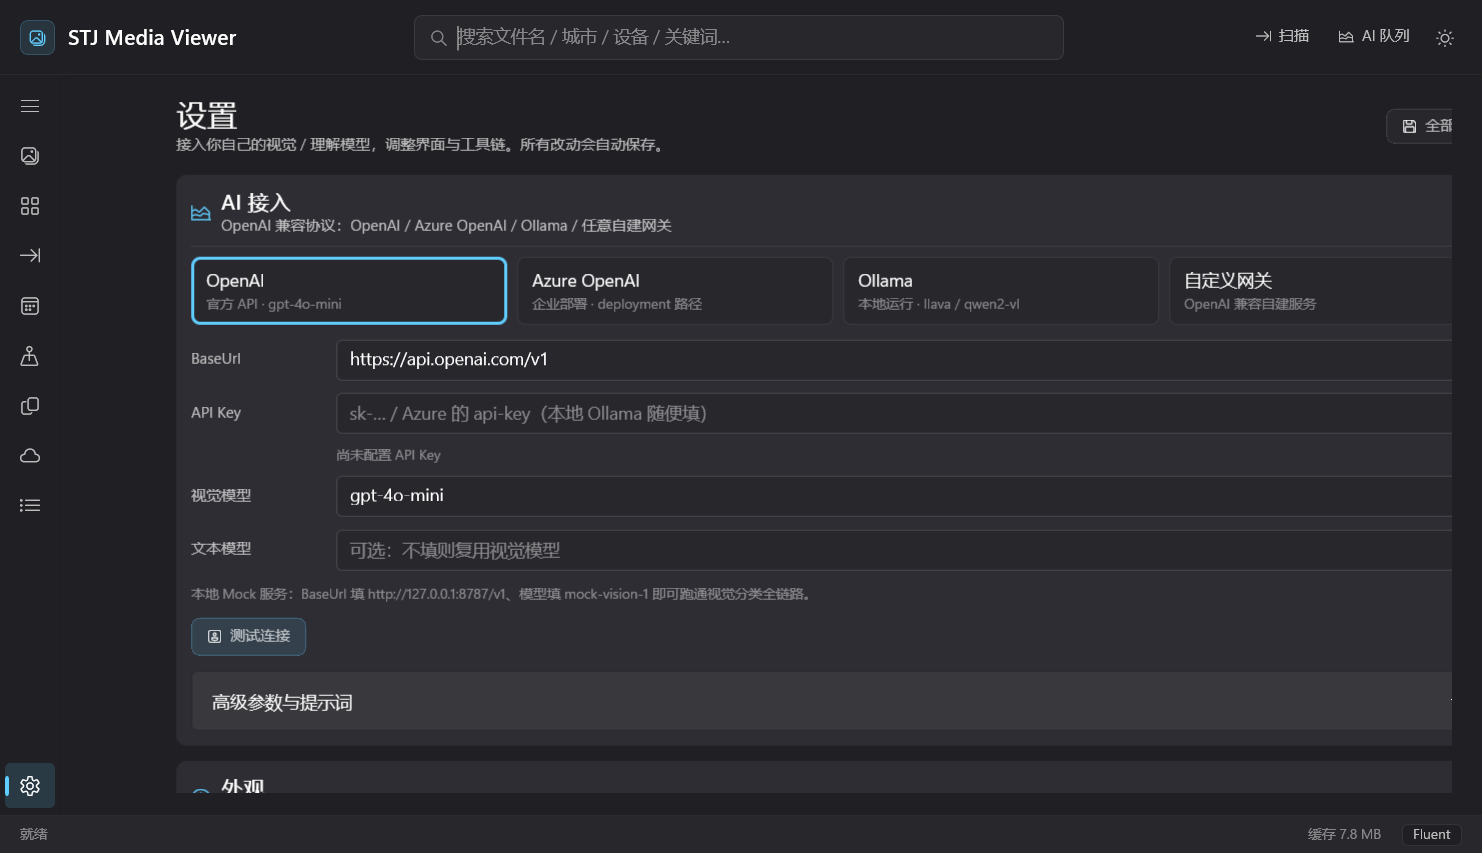
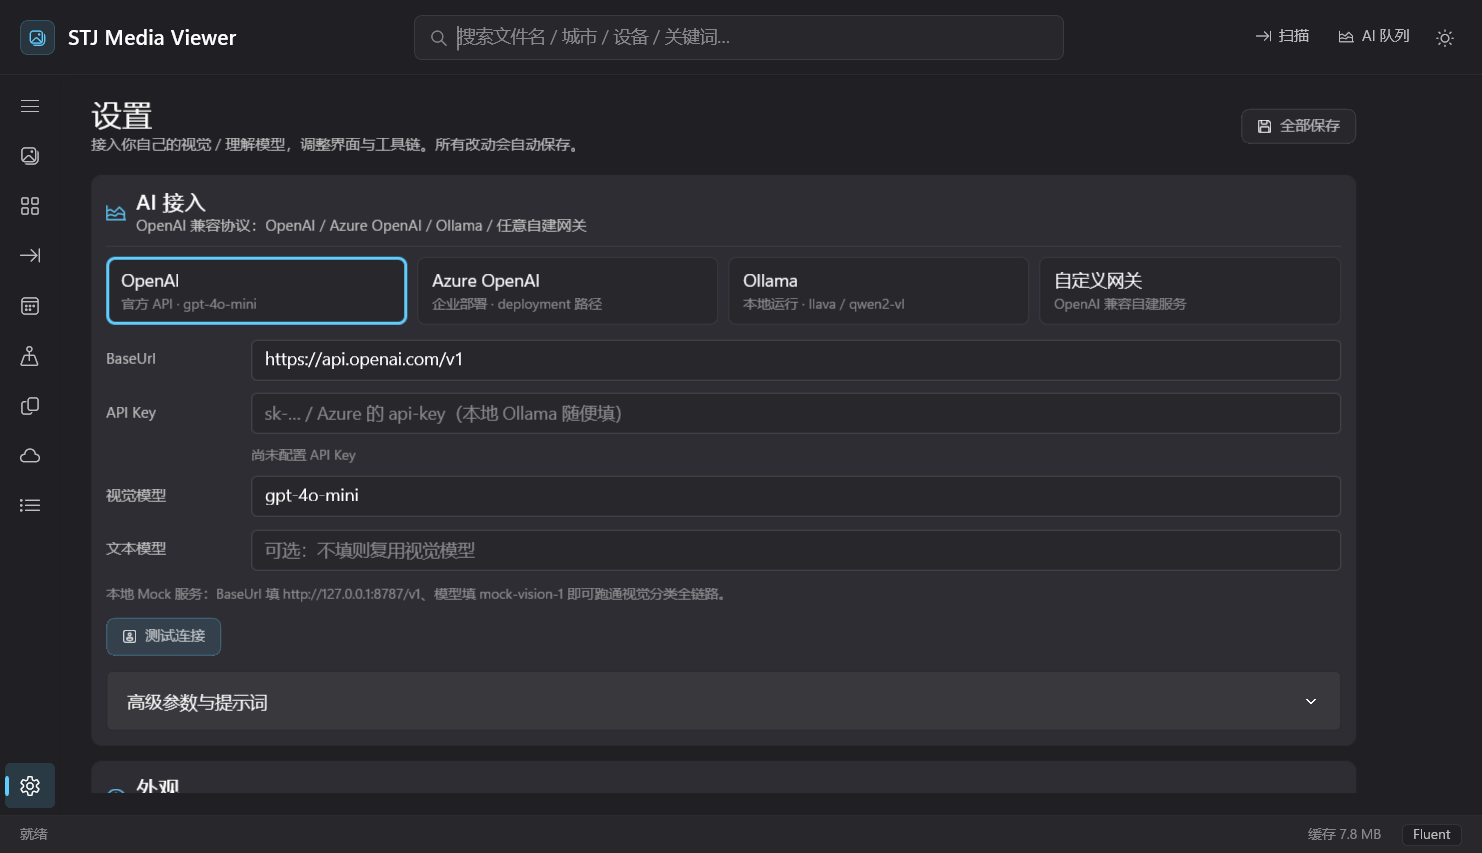
fix(layout): page content left-aligned across AI queue / settings / import / cloud (consistent 91px gutter)

diff --git a/src/StjMediaViewer.App/Views/CloudPage.xaml b/src/StjMediaViewer.App/Views/CloudPage.xaml
@@ -11,8 +11,9 @@
         数据全部来自 CloudViewModel.Shared；页面里没有任何硬编码颜色/字号/圆角。
     -->
     <Grid Background="{ThemeResource AppWindowBackgroundBrush}">
-        <ScrollViewer VerticalScrollMode="Enabled" VerticalScrollBarVisibility="Auto" Padding="24,18,24,24">
-            <StackPanel Spacing="16" MaxWidth="1240">
+        <ScrollViewer VerticalScrollMode="Enabled" VerticalScrollBarVisibility="Auto"
+                  HorizontalContentAlignment="Left" Padding="24,18,24,24">
+            <StackPanel Spacing="16" MaxWidth="1240" MinWidth="1180" HorizontalAlignment="Left">
 
                 <!-- ============ 标题 ============ -->
                 <Grid>

diff --git a/src/StjMediaViewer.App/Views/SettingsPage.xaml b/src/StjMediaViewer.App/Views/SettingsPage.xaml
@@ -28,9 +28,10 @@
 
     <!-- 内容区加一层半透明表面（Glass 下 55%），保证文字不直接落在光场上（可读性优先） -->
     <ScrollViewer VerticalScrollMode="Enabled" VerticalScrollBarVisibility="Auto"
+                  HorizontalContentAlignment="Left"
                   Background="{ThemeResource AppSurfaceBrush}"
                   Padding="{ThemeResource AppPagePadding}">
-        <StackPanel MaxWidth="1060" HorizontalAlignment="Stretch" Spacing="12">
+        <StackPanel MaxWidth="1060" MinWidth="1012" HorizontalAlignment="Left" Spacing="12">
 
             <!-- ============ 页头 ============ -->
             <Grid Margin="0,0,0,4">

diff --git a/src/StjMediaViewer.App/Views/AiQueuePage.xaml b/src/StjMediaViewer.App/Views/AiQueuePage.xaml
@@ -9,9 +9,10 @@
 
     <!-- 内容区加一层半透明表面（Glass 下 55%），保证文字不直接落在光场上（可读性优先） -->
     <ScrollViewer VerticalScrollMode="Enabled" VerticalScrollBarVisibility="Auto"
+                  HorizontalContentAlignment="Left"
                   Background="{ThemeResource AppSurfaceBrush}"
                   Padding="{ThemeResource AppPagePadding}">
-        <StackPanel MaxWidth="1060" Spacing="12">
+        <StackPanel MaxWidth="1060" MinWidth="1012" HorizontalAlignment="Left" Spacing="12">
 
             <!-- 页头 -->
             <StackPanel Spacing="2" Margin="0,0,0,4">

diff --git a/src/StjMediaViewer.App/Views/ImportPage.xaml b/src/StjMediaViewer.App/Views/ImportPage.xaml
@@ -12,9 +12,10 @@
         设计语言：单一 Fluent；颜色 / 字号 / 圆角全部来自 ThemeResource token。
     -->
     <ScrollViewer VerticalScrollMode="Enabled" VerticalScrollBarVisibility="Auto"
+                  HorizontalContentAlignment="Left"
                   Background="{ThemeResource AppSurfaceBrush}"
                   Padding="{ThemeResource AppPagePadding}">
-        <StackPanel MaxWidth="1080" Spacing="12">
+        <StackPanel MaxWidth="1080" MinWidth="1032" HorizontalAlignment="Left" Spacing="12">
 
             <!-- 页头 -->
             <StackPanel Spacing="2" Margin="0,0,0,4">
